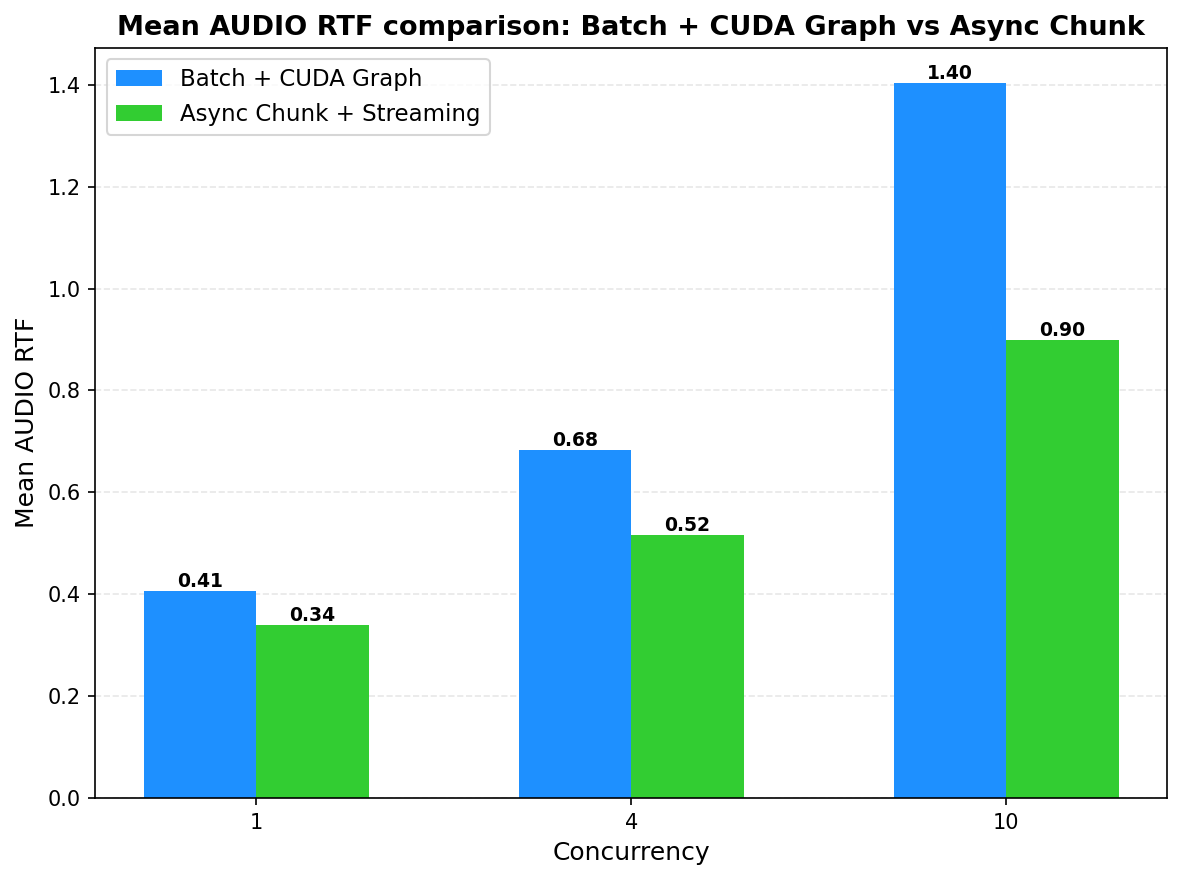
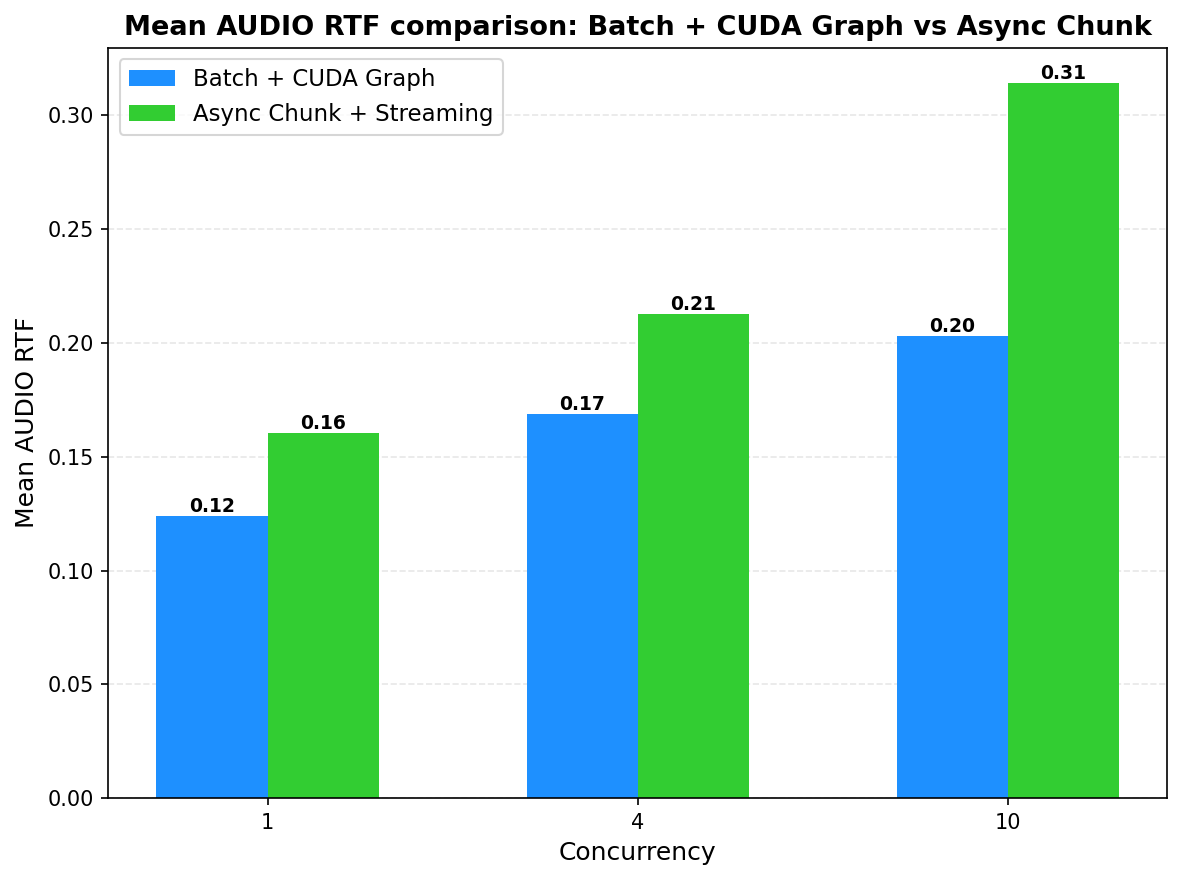
Update TTS benchmark results with latest vLLM v0.18.0 data

diff --git a/docs/design/qwen3_omni_tts_blog.md b/docs/design/qwen3_omni_tts_blog.md
@@ -30,9 +30,9 @@ Compared with **HF Transformers** (offline, single request), vLLM-Omni with the 
 **Qwen3-Omni** (A100):
 
 <table><tr>
-<td><img src="figures/omni/E2EL_s_vllm_omni_vs_transformers.png" alt="Omni E2EL: vLLM-Omni vs HF" width="100%"/></td>
-<td><img src="figures/omni/TTFP_s_vllm_omni_vs_transformers.png" alt="Omni TTFP: vLLM-Omni vs HF" width="100%"/></td>
-<td><img src="figures/omni/RTF_vllm_omni_vs_transformers.png" alt="Omni RTF: vLLM-Omni vs HF" width="100%"/></td>
+<td><img src="../figures/omni/E2EL_s_vllm_omni_vs_transformers.png" alt="Omni E2EL: vLLM-Omni vs HF" width="100%"/></td>
+<td><img src="../figures/omni/TTFP_s_vllm_omni_vs_transformers.png" alt="Omni TTFP: vLLM-Omni vs HF" width="100%"/></td>
+<td><img src="../figures/omni/RTF_vllm_omni_vs_transformers.png" alt="Omni RTF: vLLM-Omni vs HF" width="100%"/></td>
 </tr></table>
 
 - **E2E latency**: 23.78 s vs 336.10 s - **~93%** reduction
@@ -42,14 +42,14 @@ Compared with **HF Transformers** (offline, single request), vLLM-Omni with the 
 **Qwen3-TTS** (H200, concurrency 1):
 
 <table><tr>
-<td><img src="figures/tts/Mean_E2EL_(ms)_vllm_omni_vs_transformers.png" alt="TTS E2EL: vLLM-Omni vs HF" width="100%"/></td>
-<td><img src="figures/tts/Mean_AUDIO_TTFP_(ms)_vllm_omni_vs_transformers.png" alt="TTS TTFP: vLLM-Omni vs HF" width="100%"/></td>
-<td><img src="figures/tts/Mean_AUDIO_RTF_vllm_omni_vs_transformers.png" alt="TTS RTF: vLLM-Omni vs HF" width="100%"/></td>
+<td><img src="../figures/tts/Mean_E2EL_(ms)_vllm_omni_vs_transformers.png" alt="TTS E2EL: vLLM-Omni vs HF" width="100%"/></td>
+<td><img src="../figures/tts/Mean_AUDIO_TTFP_(ms)_vllm_omni_vs_transformers.png" alt="TTS TTFP: vLLM-Omni vs HF" width="100%"/></td>
+<td><img src="../figures/tts/Mean_AUDIO_RTF_vllm_omni_vs_transformers.png" alt="TTS RTF: vLLM-Omni vs HF" width="100%"/></td>
 </tr></table>
 
-- **E2E latency**: 2.08 s vs 15.51 s - **~87%** reduction
-- **TTFP**: 97 ms vs 15,513 ms - **~99.4%** reduction (160x faster)
-- **RTF**: 0.34 vs 2.64 - **~87%** reduction (~7.8x faster)
+- **E2E latency**: 941 ms vs 15,513 ms - **~94%** reduction
+- **TTFP**: 64 ms vs 15,513 ms - **~99.6%** reduction (242x faster)
+- **RTF**: 0.16 vs 2.64 - **~94%** reduction (~16.5x faster)
 
 ### Stacked optimization summary
 
@@ -58,9 +58,9 @@ Each optimization stacks on the previous one. The summary plots below show the c
 **Qwen3-Omni** (A100):
 
 <table><tr>
-<td><img src="figures/omni/Summary_E2EL_ms_vs_features.png" alt="Omni E2EL summary" width="100%"/></td>
-<td><img src="figures/omni/Summary_TTFP_ms_vs_features.png" alt="Omni TTFP summary" width="100%"/></td>
-<td><img src="figures/omni/Summary_RTF_vs_features.png" alt="Omni RTF summary" width="100%"/></td>
+<td><img src="../figures/omni/Summary_E2EL_ms_vs_features.png" alt="Omni E2EL summary" width="100%"/></td>
+<td><img src="../figures/omni/Summary_TTFP_ms_vs_features.png" alt="Omni TTFP summary" width="100%"/></td>
+<td><img src="../figures/omni/Summary_RTF_vs_features.png" alt="Omni RTF summary" width="100%"/></td>
 </tr></table>
 
 - **E2EL reduction**: ~91% at concurrency 10 (1,523,135 ms -> 130,682 ms); ~81% at concurrency 1 (325,865 ms -> 60,436 ms)
@@ -70,14 +70,14 @@ Each optimization stacks on the previous one. The summary plots below show the c
 **Qwen3-TTS** (H200):
 
 <table><tr>
-<td><img src="figures/tts/Summary_mean_e2e_ms_vs_features.png" alt="TTS E2EL summary" width="100%"/></td>
-<td><img src="figures/tts/Summary_mean_ttfp_ms_vs_features.png" alt="TTS TTFP summary" width="100%"/></td>
-<td><img src="figures/tts/Summary_mean_rtf_vs_features.png" alt="TTS RTF summary" width="100%"/></td>
+<td><img src="../figures/tts/Summary_mean_e2e_ms_vs_features.png" alt="TTS E2EL summary" width="100%"/></td>
+<td><img src="../figures/tts/Summary_mean_ttfp_ms_vs_features.png" alt="TTS TTFP summary" width="100%"/></td>
+<td><img src="../figures/tts/Summary_mean_rtf_vs_features.png" alt="TTS RTF summary" width="100%"/></td>
 </tr></table>
 
-- **E2EL reduction**: ~89% at concurrency 10 (44,543 ms -> 4,971 ms); ~56% at concurrency 1 (4,714 ms -> 2,082 ms)
-- **TTFP reduction**: ~97% at concurrency 10 (44,543 ms -> 1,383 ms); ~98% at concurrency 1 (4,714 ms -> 97 ms)
-- **RTF reduction**: ~89% at concurrency 10 (8.15 -> 0.90); ~60% at concurrency 1 (0.85 -> 0.34)
+- **E2EL reduction**: ~85% at concurrency 10 (12,141 ms -> 1,767 ms); ~29% at concurrency 1 (1,323 ms -> 941 ms)
+- **TTFP reduction**: ~96.5% at concurrency 10 (12,141 ms -> 425 ms); ~95% at concurrency 1 (1,323 ms -> 64 ms)
+- **RTF reduction**: ~86% at concurrency 10 (2.19 -> 0.31); ~30% at concurrency 1 (0.23 -> 0.16)
 
 **Benchmark environment:**
 
@@ -85,8 +85,8 @@ Each optimization stacks on the previous one. The summary plots below show the c
 | --- | --- | --- |
 | **GPU** | A100 | H200 |
 | **Model** | Qwen3-Omni-30B-A3B-Instruct | Qwen3-TTS-12Hz-1.7B-CustomVoice |
-| **vLLM** | v0.16.0 | v0.16.0 |
-| **vllm-omni** | commit 070ea0dd | commit TODO |
+| **vLLM** | v0.16.0 | v0.18.0 |
+| **vllm-omni** | commit 070ea0dd | v0.18.0rc2 |
 | **CUDA** | 12.8 | 12.8 |
 
 This post walks through each optimization in the same order they are typically enabled in practice, then ends with deployment playbooks for both models.
@@ -112,9 +112,9 @@ Batching alone greatly reduces E2EL and RTF across all concurrencies. The bigges
 **Qwen3-Omni** (A100):
 
 <table><tr>
-<td><img src="figures/omni/Mean_E2EL_ms_Baseline_vs_Batch.png" alt="Omni E2EL: Baseline vs Batch" width="100%"/></td>
-<td><img src="figures/omni/Mean_AUDIO_TTFP_ms_Baseline_vs_Batch.png" alt="Omni TTFP: Baseline vs Batch" width="100%"/></td>
-<td><img src="figures/omni/Mean_AUDIO_RTF_Baseline_vs_Batch.png" alt="Omni RTF: Baseline vs Batch" width="100%"/></td>
+<td><img src="../figures/omni/Mean_E2EL_ms_Baseline_vs_Batch.png" alt="Omni E2EL: Baseline vs Batch" width="100%"/></td>
+<td><img src="../figures/omni/Mean_AUDIO_TTFP_ms_Baseline_vs_Batch.png" alt="Omni TTFP: Baseline vs Batch" width="100%"/></td>
+<td><img src="../figures/omni/Mean_AUDIO_RTF_Baseline_vs_Batch.png" alt="Omni RTF: Baseline vs Batch" width="100%"/></td>
 </tr></table>
 
 At concurrency 10, E2EL drops from ~1,523 s to ~262 s; at concurrency 1, from ~326 s to ~239 s.
@@ -122,22 +122,22 @@ At concurrency 10, E2EL drops from ~1,523 s to ~262 s; at concurrency 1, from ~3
 **Qwen3-TTS** (H200):
 
 <table><tr>
-<td><img src="figures/tts/Mean_mean_e2e_ms_baseline_vs_batch.png" alt="TTS E2EL: Baseline vs Batch" width="100%"/></td>
-<td><img src="figures/tts/Mean_mean_ttfp_ms_baseline_vs_batch.png" alt="TTS TTFP: Baseline vs Batch" width="100%"/></td>
-<td><img src="figures/tts/Mean_mean_rtf_baseline_vs_batch.png" alt="TTS RTF: Baseline vs Batch" width="100%"/></td>
+<td><img src="../figures/tts/Mean_mean_e2e_ms_baseline_vs_batch.png" alt="TTS E2EL: Baseline vs Batch" width="100%"/></td>
+<td><img src="../figures/tts/Mean_mean_ttfp_ms_baseline_vs_batch.png" alt="TTS TTFP: Baseline vs Batch" width="100%"/></td>
+<td><img src="../figures/tts/Mean_mean_rtf_baseline_vs_batch.png" alt="TTS RTF: Baseline vs Batch" width="100%"/></td>
 </tr></table>
 
 | Metric | Concurrency | Baseline | + Batch | Improvement |
 | --- | --- | --- | --- | --- |
-| E2EL (ms) | 1 | 4,714 | 2,531 | 1.9x |
-| E2EL (ms) | 4 | 18,258 | 2,847 | 6.4x |
-| E2EL (ms) | 10 | 44,543 | 4,920 | 9.1x |
-| RTF | 1 | 0.851 | 0.434 | 2.0x |
-| RTF | 4 | 3.205 | 0.492 | 6.5x |
-| RTF | 10 | 8.152 | 0.871 | 9.4x |
-| Throughput | 10 | 1.25x | 10.35x | 8.3x |
+| E2EL (ms) | 1 | 1,323 | 1,339 | 1.0x |
+| E2EL (ms) | 4 | 5,171 | 1,471 | 3.5x |
+| E2EL (ms) | 10 | 12,141 | 1,705 | 7.1x |
+| RTF | 1 | 0.230 | 0.234 | 1.0x |
+| RTF | 4 | 0.908 | 0.255 | 3.6x |
+| RTF | 10 | 2.186 | 0.292 | 7.5x |
+| Throughput (audio-s/wall-s) | 10 | 3.99 | 33.53 | 8.4x |
 
-At concurrency 10, batching alone brings Qwen3-TTS RTF from 8.15 (far from realtime) down to 0.87 (faster than realtime), and throughput from 1.25x to 10.35x.
+At concurrency 10, batching alone brings Qwen3-TTS RTF from 2.19 (slower than realtime) down to 0.29 (faster than realtime), and throughput from 4.0 to 33.5 audio-sec/wall-sec.
 
 ---
 
@@ -154,18 +154,31 @@ In stage configs, this is represented by `enforce_eager: false` for stages where
 **Qwen3-Omni** (A100):
 
 <table><tr>
-<td><img src="figures/omni/Mean_E2EL_ms_Batch_vs_Batch_CUDA_Graph.png" alt="Omni E2EL: Batch vs +CG" width="100%"/></td>
-<td><img src="figures/omni/Mean_AUDIO_TTFP_ms_Batch_vs_Batch_CUDA_Graph.png" alt="Omni TTFP: Batch vs +CG" width="100%"/></td>
-<td><img src="figures/omni/Mean_AUDIO_RTF_Batch_vs_Batch_CUDA_Graph.png" alt="Omni RTF: Batch vs +CG" width="100%"/></td>
+<td><img src="../figures/omni/Mean_E2EL_ms_Batch_vs_Batch_CUDA_Graph.png" alt="Omni E2EL: Batch vs +CG" width="100%"/></td>
+<td><img src="../figures/omni/Mean_AUDIO_TTFP_ms_Batch_vs_Batch_CUDA_Graph.png" alt="Omni TTFP: Batch vs +CG" width="100%"/></td>
+<td><img src="../figures/omni/Mean_AUDIO_RTF_Batch_vs_Batch_CUDA_Graph.png" alt="Omni RTF: Batch vs +CG" width="100%"/></td>
 </tr></table>
 
 For the larger Qwen3-Omni model (30B-A3B), CUDA Graph provides a significant improvement. At concurrency 1, E2EL drops from ~239 s to ~67 s; at concurrency 10, from ~262 s to ~153 s.
 
 **Qwen3-TTS** (H200):
 
-For the Qwen3-TTS 1.7B model, vLLM's CUDA graph on the main Talker decode loop shows **negligible impact** - within noise at concurrency 1 and slightly worse at concurrency 10. The model is small enough that CPU kernel launch overhead is already a tiny fraction of total compute, so graph replay doesn't help. For larger TTS models, the benefit would be more pronounced.
+<table><tr>
+<td><img src="../figures/tts/Mean_mean_e2e_ms_batch_vs_cuda_graph.png" alt="TTS E2EL: Batch vs +CG" width="100%"/></td>
+<td><img src="../figures/tts/Mean_mean_ttfp_ms_batch_vs_cuda_graph.png" alt="TTS TTFP: Batch vs +CG" width="100%"/></td>
+<td><img src="../figures/tts/Mean_mean_rtf_batch_vs_cuda_graph.png" alt="TTS RTF: Batch vs +CG" width="100%"/></td>
+</tr></table>
 
-Instead, the TTS-specific kernel-level optimization comes from **`torch.compile` on the code predictor** (see below), which targets the many small kernels in the 5-layer residual codebook transformer rather than the main Talker decode path.
+| Metric | Concurrency | Batch | + CUDA Graph | Improvement |
+| --- | --- | --- | --- | --- |
+| E2EL (ms) | 1 | 1,339 | 733 | 1.8x |
+| E2EL (ms) | 4 | 1,471 | 987 | 1.5x |
+| E2EL (ms) | 10 | 1,705 | 1,197 | 1.4x |
+| RTF | 1 | 0.234 | 0.124 | 1.9x |
+| RTF | 10 | 0.292 | 0.203 | 1.4x |
+| Throughput (audio-s/wall-s) | 10 | 33.53 | 47.15 | 1.4x |
+
+At concurrency 1, CUDA Graph reduces E2EL from 1,339 ms to 733 ms and RTF from 0.234 to 0.124 - nearly a 2x improvement. The benefit is consistent across all concurrency levels.
 
 ---
 
@@ -187,9 +200,9 @@ So in practice: streaming output defines *how* bytes are sent to the client; asy
 **Qwen3-Omni** (A100):
 
 <table><tr>
-<td><img src="figures/omni/Mean_E2EL_ms_Batch_CUDA_Graph_vs_Async_Chunk.png" alt="Omni E2EL: +CG vs +Async" width="100%"/></td>
-<td><img src="figures/omni/Mean_AUDIO_TTFP_ms_Batch_CUDA_Graph_vs_Async_Chunk.png" alt="Omni TTFP: +CG vs +Async" width="100%"/></td>
-<td><img src="figures/omni/Mean_AUDIO_RTF_Batch_CUDA_Graph_vs_Async_Chunk.png" alt="Omni RTF: +CG vs +Async" width="100%"/></td>
+<td><img src="../figures/omni/Mean_E2EL_ms_Batch_CUDA_Graph_vs_Async_Chunk.png" alt="Omni E2EL: +CG vs +Async" width="100%"/></td>
+<td><img src="../figures/omni/Mean_AUDIO_TTFP_ms_Batch_CUDA_Graph_vs_Async_Chunk.png" alt="Omni TTFP: +CG vs +Async" width="100%"/></td>
+<td><img src="../figures/omni/Mean_AUDIO_RTF_Batch_CUDA_Graph_vs_Async_Chunk.png" alt="Omni RTF: +CG vs +Async" width="100%"/></td>
 </tr></table>
 
 Enabling both brings TTFP down sharply (concurrency 1: 67,121 ms -> 1,263 ms, **~98% reduction**; concurrency 4: 98,679 ms -> 3,175 ms, **~97% reduction**). E2EL and RTF also improve at every concurrency.
@@ -197,22 +210,36 @@ Enabling both brings TTFP down sharply (concurrency 1: 67,121 ms -> 1,263 ms, **
 **Qwen3-TTS** (H200):
 
 <table><tr>
-<td><img src="figures/tts/Mean_mean_e2e_ms_cuda_graph_vs_async_chunk.png" alt="TTS E2EL: +CG vs +Async" width="100%"/></td>
-<td><img src="figures/tts/Mean_mean_ttfp_ms_cuda_graph_vs_async_chunk.png" alt="TTS TTFP: +CG vs +Async" width="100%"/></td>
-<td><img src="figures/tts/Mean_mean_rtf_cuda_graph_vs_async_chunk.png" alt="TTS RTF: +CG vs +Async" width="100%"/></td>
+<td><img src="../figures/tts/Mean_mean_e2e_ms_cuda_graph_vs_async_chunk.png" alt="TTS E2EL: +CG vs +Async" width="100%"/></td>
+<td><img src="../figures/tts/Mean_mean_ttfp_ms_cuda_graph_vs_async_chunk.png" alt="TTS TTFP: +CG vs +Async" width="100%"/></td>
+<td><img src="../figures/tts/Mean_mean_rtf_cuda_graph_vs_async_chunk.png" alt="TTS RTF: +CG vs +Async" width="100%"/></td>
 </tr></table>
 
 | Metric | Concurrency | Batch + CG | + Async Chunk | Improvement |
 | --- | --- | --- | --- | --- |
-| TTFP (ms) | 1 | 2,335 | **97** | **24.1x** |
-| TTFP (ms) | 4 | 3,975 | **254** | **15.7x** |
-| TTFP (ms) | 10 | 7,743 | **1,383** | **5.6x** |
-| E2EL (ms) | 1 | 2,335 | 2,082 | 1.1x |
-| E2EL (ms) | 10 | 7,743 | 4,971 | 1.6x |
-| RTF | 1 | 0.407 | 0.340 | 1.2x |
-| RTF | 10 | 1.403 | 0.898 | 1.6x |
+| TTFP (ms) | 1 | 733 | **64** | **11.5x** |
+| TTFP (ms) | 4 | 987 | **119** | **8.3x** |
+| TTFP (ms) | 10 | 1,197 | **425** | **2.8x** |
+| E2EL (ms) | 1 | 733 | 941 | 0.8x |
+| E2EL (ms) | 10 | 1,197 | 1,767 | 0.7x |
+| RTF | 1 | 0.124 | 0.160 | 0.8x |
+| RTF | 10 | 0.203 | 0.314 | 0.6x |
 
-The TTFP improvement is the headline result for both models. For Qwen3-TTS at concurrency 1, users hear the first audio in **97 ms** instead of 2,335 ms - a **24x reduction**. For Qwen3-Omni at concurrency 1, TTFP drops from 67 s to 1.3 s - a **53x reduction**.
+The TTFP improvement is the headline result for both models. For Qwen3-TTS at concurrency 1, users hear the first audio in **64 ms** instead of 733 ms - an **11.5x reduction**. For Qwen3-Omni at concurrency 1, TTFP drops from 67 s to 1.3 s - a **53x reduction**.
+
+### Why E2EL and RTF are higher with async chunk
+
+The table above shows that enabling async chunk + streaming *increases* E2EL and RTF compared to CUDA Graph alone. This is expected - the two configurations optimize for fundamentally different metrics:
+
+**CUDA Graph (no async chunk)** generates the entire audio end-to-end before returning a single response. There is no chunking overhead, so total compute is minimized and RTF is lowest. However, the user must wait for the full audio before hearing anything.
+
+**Async Chunk + Streaming** splits the pipeline into incremental chunks, which introduces three sources of overhead:
+
+1. **Chunked transport**: each chunk requires a separate shared-memory transfer between stages, versus one bulk transfer without async chunk.
+2. **Context overlap in Code2Wav**: each chunk re-processes `codec_left_context_frames` (25 frames) of overlapping context to maintain audio quality at chunk boundaries, adding redundant compute.
+3. **Smaller effective batch size per chunk**: chunked decoding processes fewer frames at a time, reducing GPU utilization compared to full-sequence decoding.
+
+**The tradeoff is intentional.** Async chunk trades ~30% higher total compute time for **11x faster time-to-first-audio**. For interactive applications (voice assistants, chatbots, real-time TTS), TTFP is the metric that determines perceived responsiveness - users hearing audio in 64 ms vs 733 ms is a qualitative difference in experience. For offline batch processing where total throughput matters most, CUDA Graph without async chunk is the better choice.
 
 ---
 
@@ -291,7 +318,7 @@ runtime:
         # set initial_codec_chunk_frames: 2 to force a fixed value
 ```
 
-The 97 ms TTFP result reported above for Qwen3-TTS at concurrency 1 uses the dynamic initial chunk, which picks `initial_codec_chunk_frames=2` at low load. At higher concurrency the dynamic sizing increases the initial chunk to maintain decode efficiency.
+The 64 ms TTFP result reported above for Qwen3-TTS at concurrency 1 uses the dynamic initial chunk, which picks `initial_codec_chunk_frames=2` at low load. At higher concurrency the dynamic sizing increases the initial chunk to maintain decode efficiency.
 
 ---
 
@@ -320,7 +347,7 @@ The WebSocket protocol uses `audio.start` / binary PCM chunks / `audio.done` fra
 {"type":"session.done","total_sentences":2}
 ```
 
-<iframe width="560" height="315" src="https://www.youtube.com/embed/rB_MgPUx46U" frameborder="0" allow="accelerometer; autoplay; clipboard-write; encrypted-media; gyroscope; picture-in-picture" allowfullscreen></iframe>
+<iframe width="560" height="315" src="https://www.youtube.com/embed/O3IVniwwKNA" frameborder="0" allow="accelerometer; autoplay; clipboard-write; encrypted-media; gyroscope; picture-in-picture" allowfullscreen></iframe>
 
 ---
 
@@ -407,7 +434,7 @@ vllm bench serve \
 ```bash
 vllm-omni serve Qwen/Qwen3-TTS-12Hz-1.7B-CustomVoice \
   --omni \
-  --port 8000
+  --port 8091
 ```
 
 The default config (`qwen3_tts.yaml`) enables the full optimization stack:
@@ -421,7 +448,7 @@ The default config (`qwen3_tts.yaml`) enables the full optimization stack:
 ```bash
 vllm-omni serve Qwen/Qwen3-TTS-12Hz-1.7B-CustomVoice \
   --omni \
-  --port 8000 \
+  --port 8091 \
   --stage-configs-path vllm_omni/model_executor/stage_configs/qwen3_tts_no_async_chunk.yaml
 ```
 
